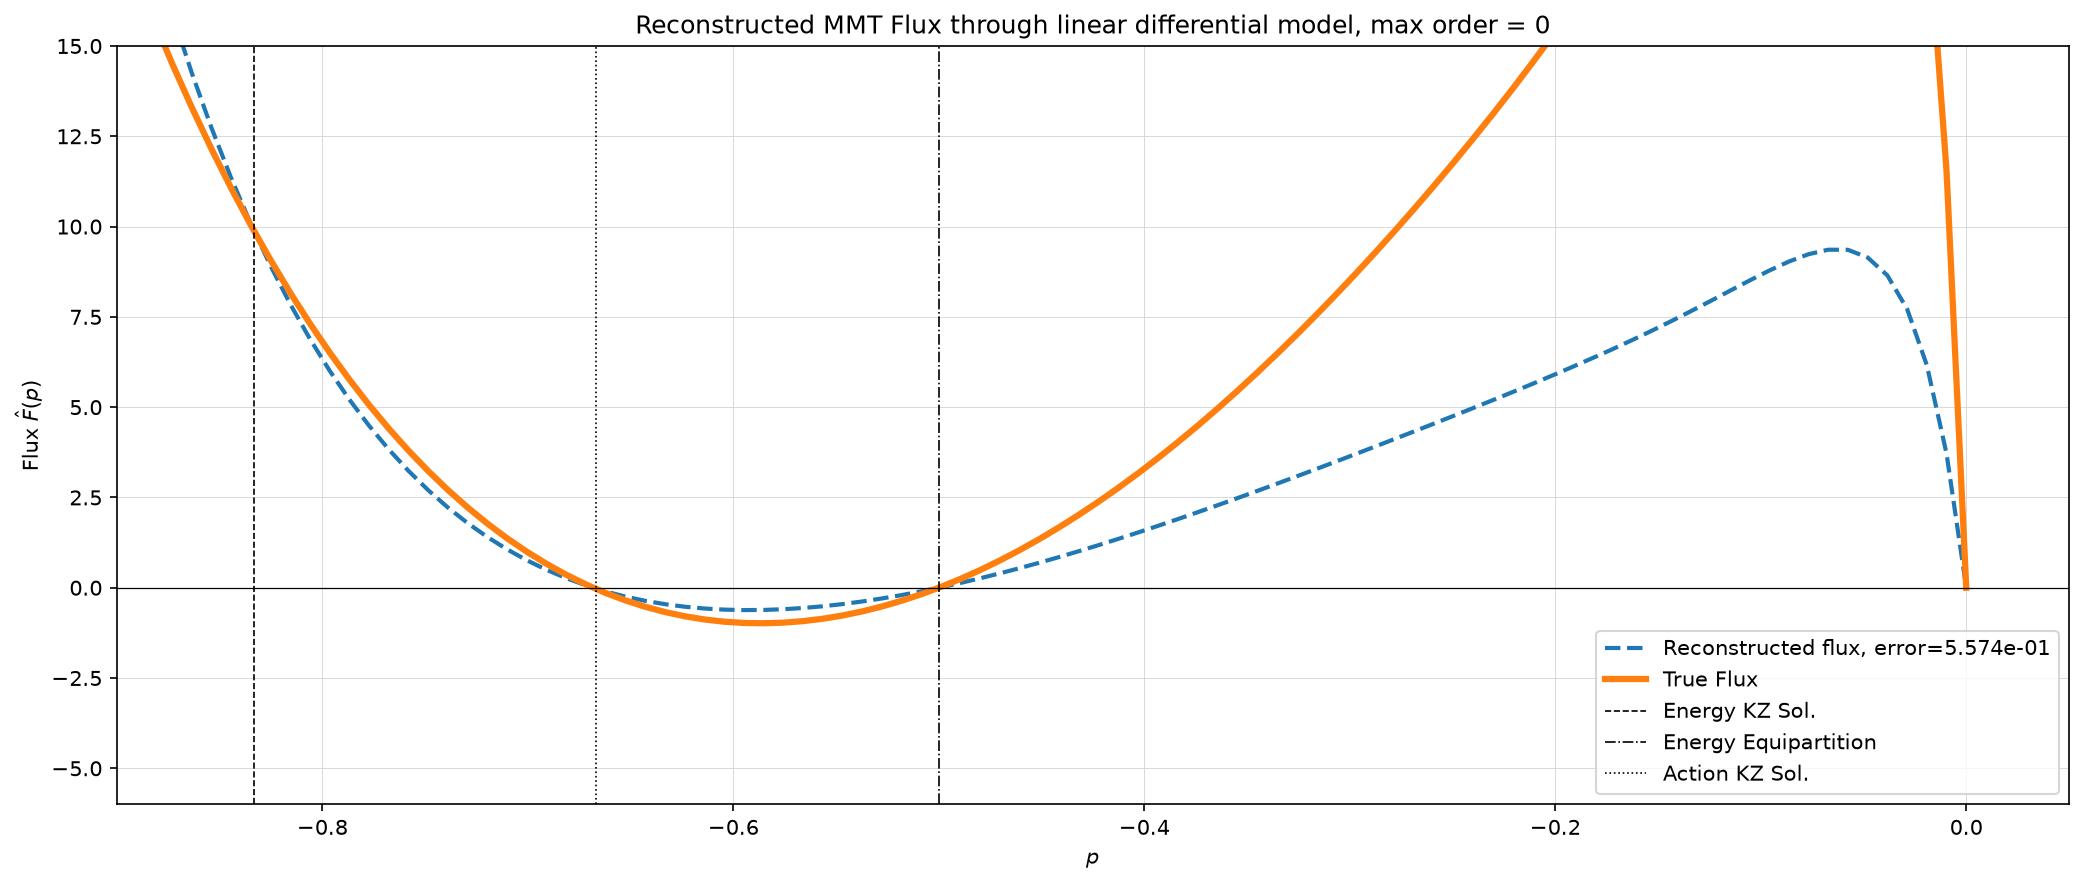
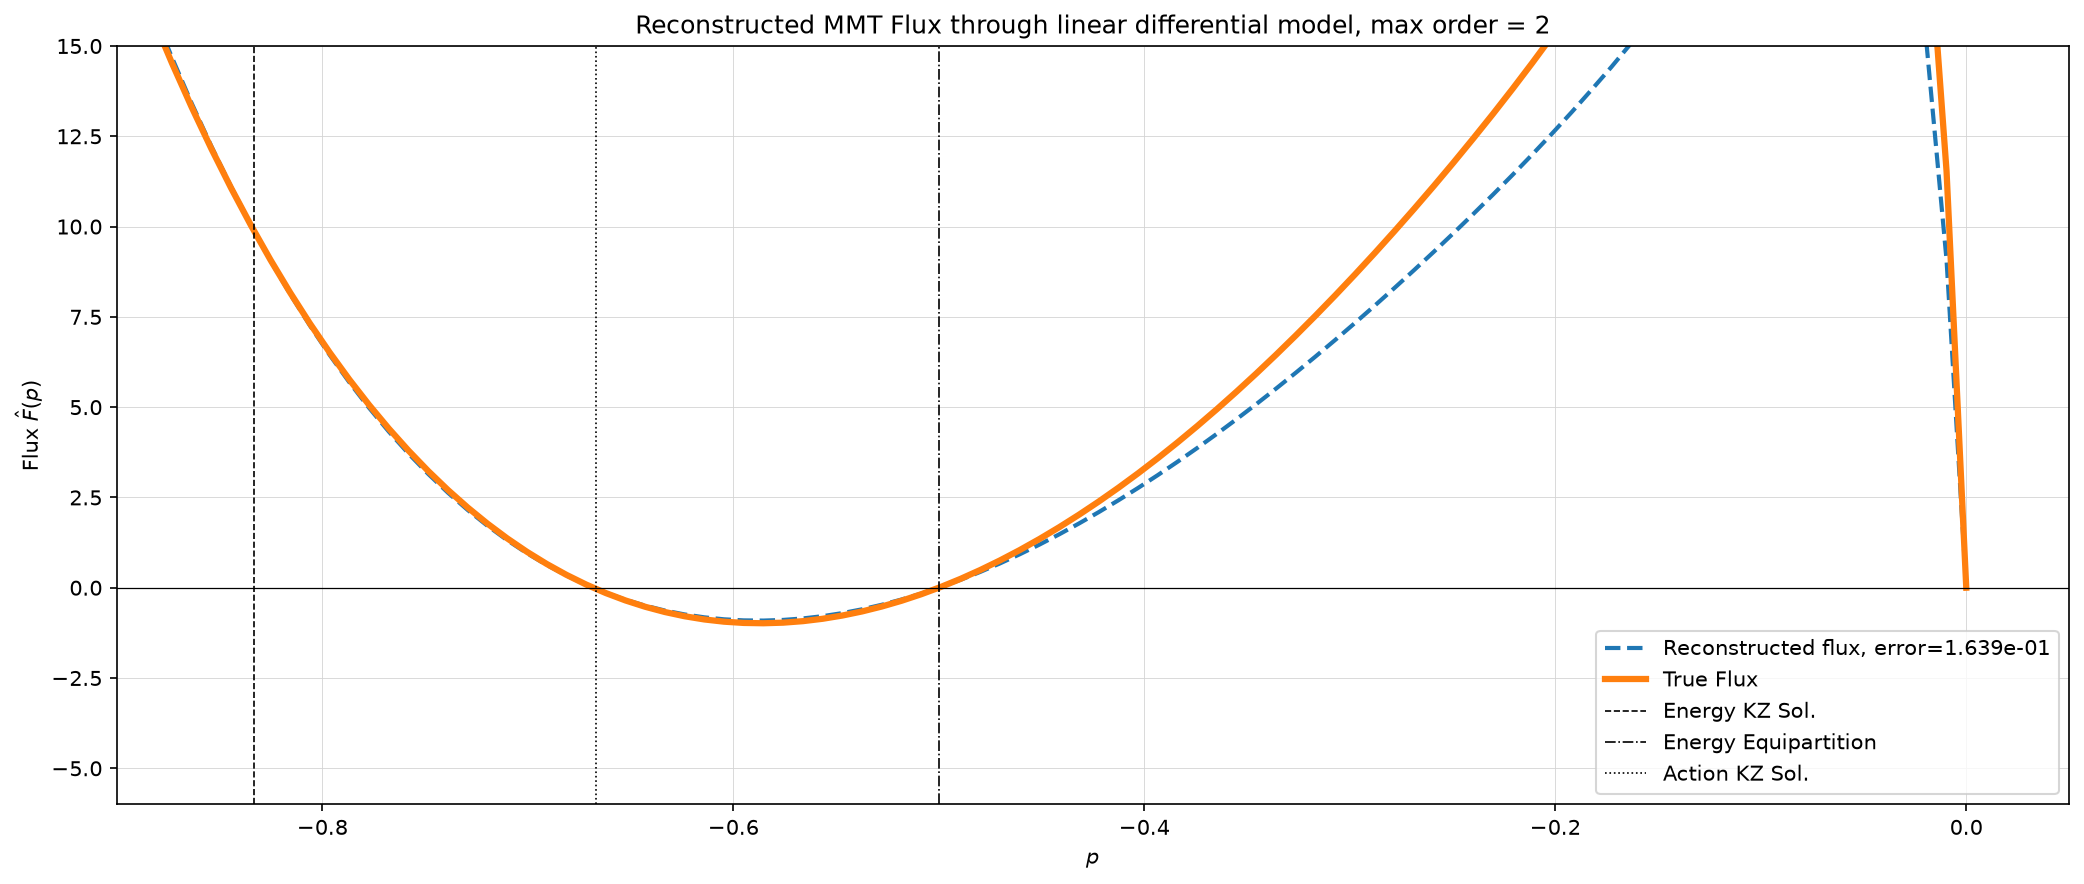
refactor: update fit_DAM function to support higher max_order for improved fitting

diff --git a/main_mmt.py b/main_mmt.py
@@ -100,7 +100,7 @@ test_data = splits["test"]
 #------------------ Fit dei coefficienti stacked, tentativo di DAM -----------------------------#
 
 fit_DAM(
-    ps = np.linspace(-0.95, 0, 100), k = np.linspace(0.1, 1.0, 100), A = 1, beta=0.25, max_order=0,
+    ps = np.linspace(-0.95, 0, 100), k = np.linspace(0.1, 1.0, 100), A = 1, beta=0.25, max_order=2,
     k_min = config.K_MIN, k_max = config.K_MAX, N=300, IntN=200,
     save_path="outputs_mmt/fit_DAM_mmt_linear_ENERGY.png", show=False
 )
